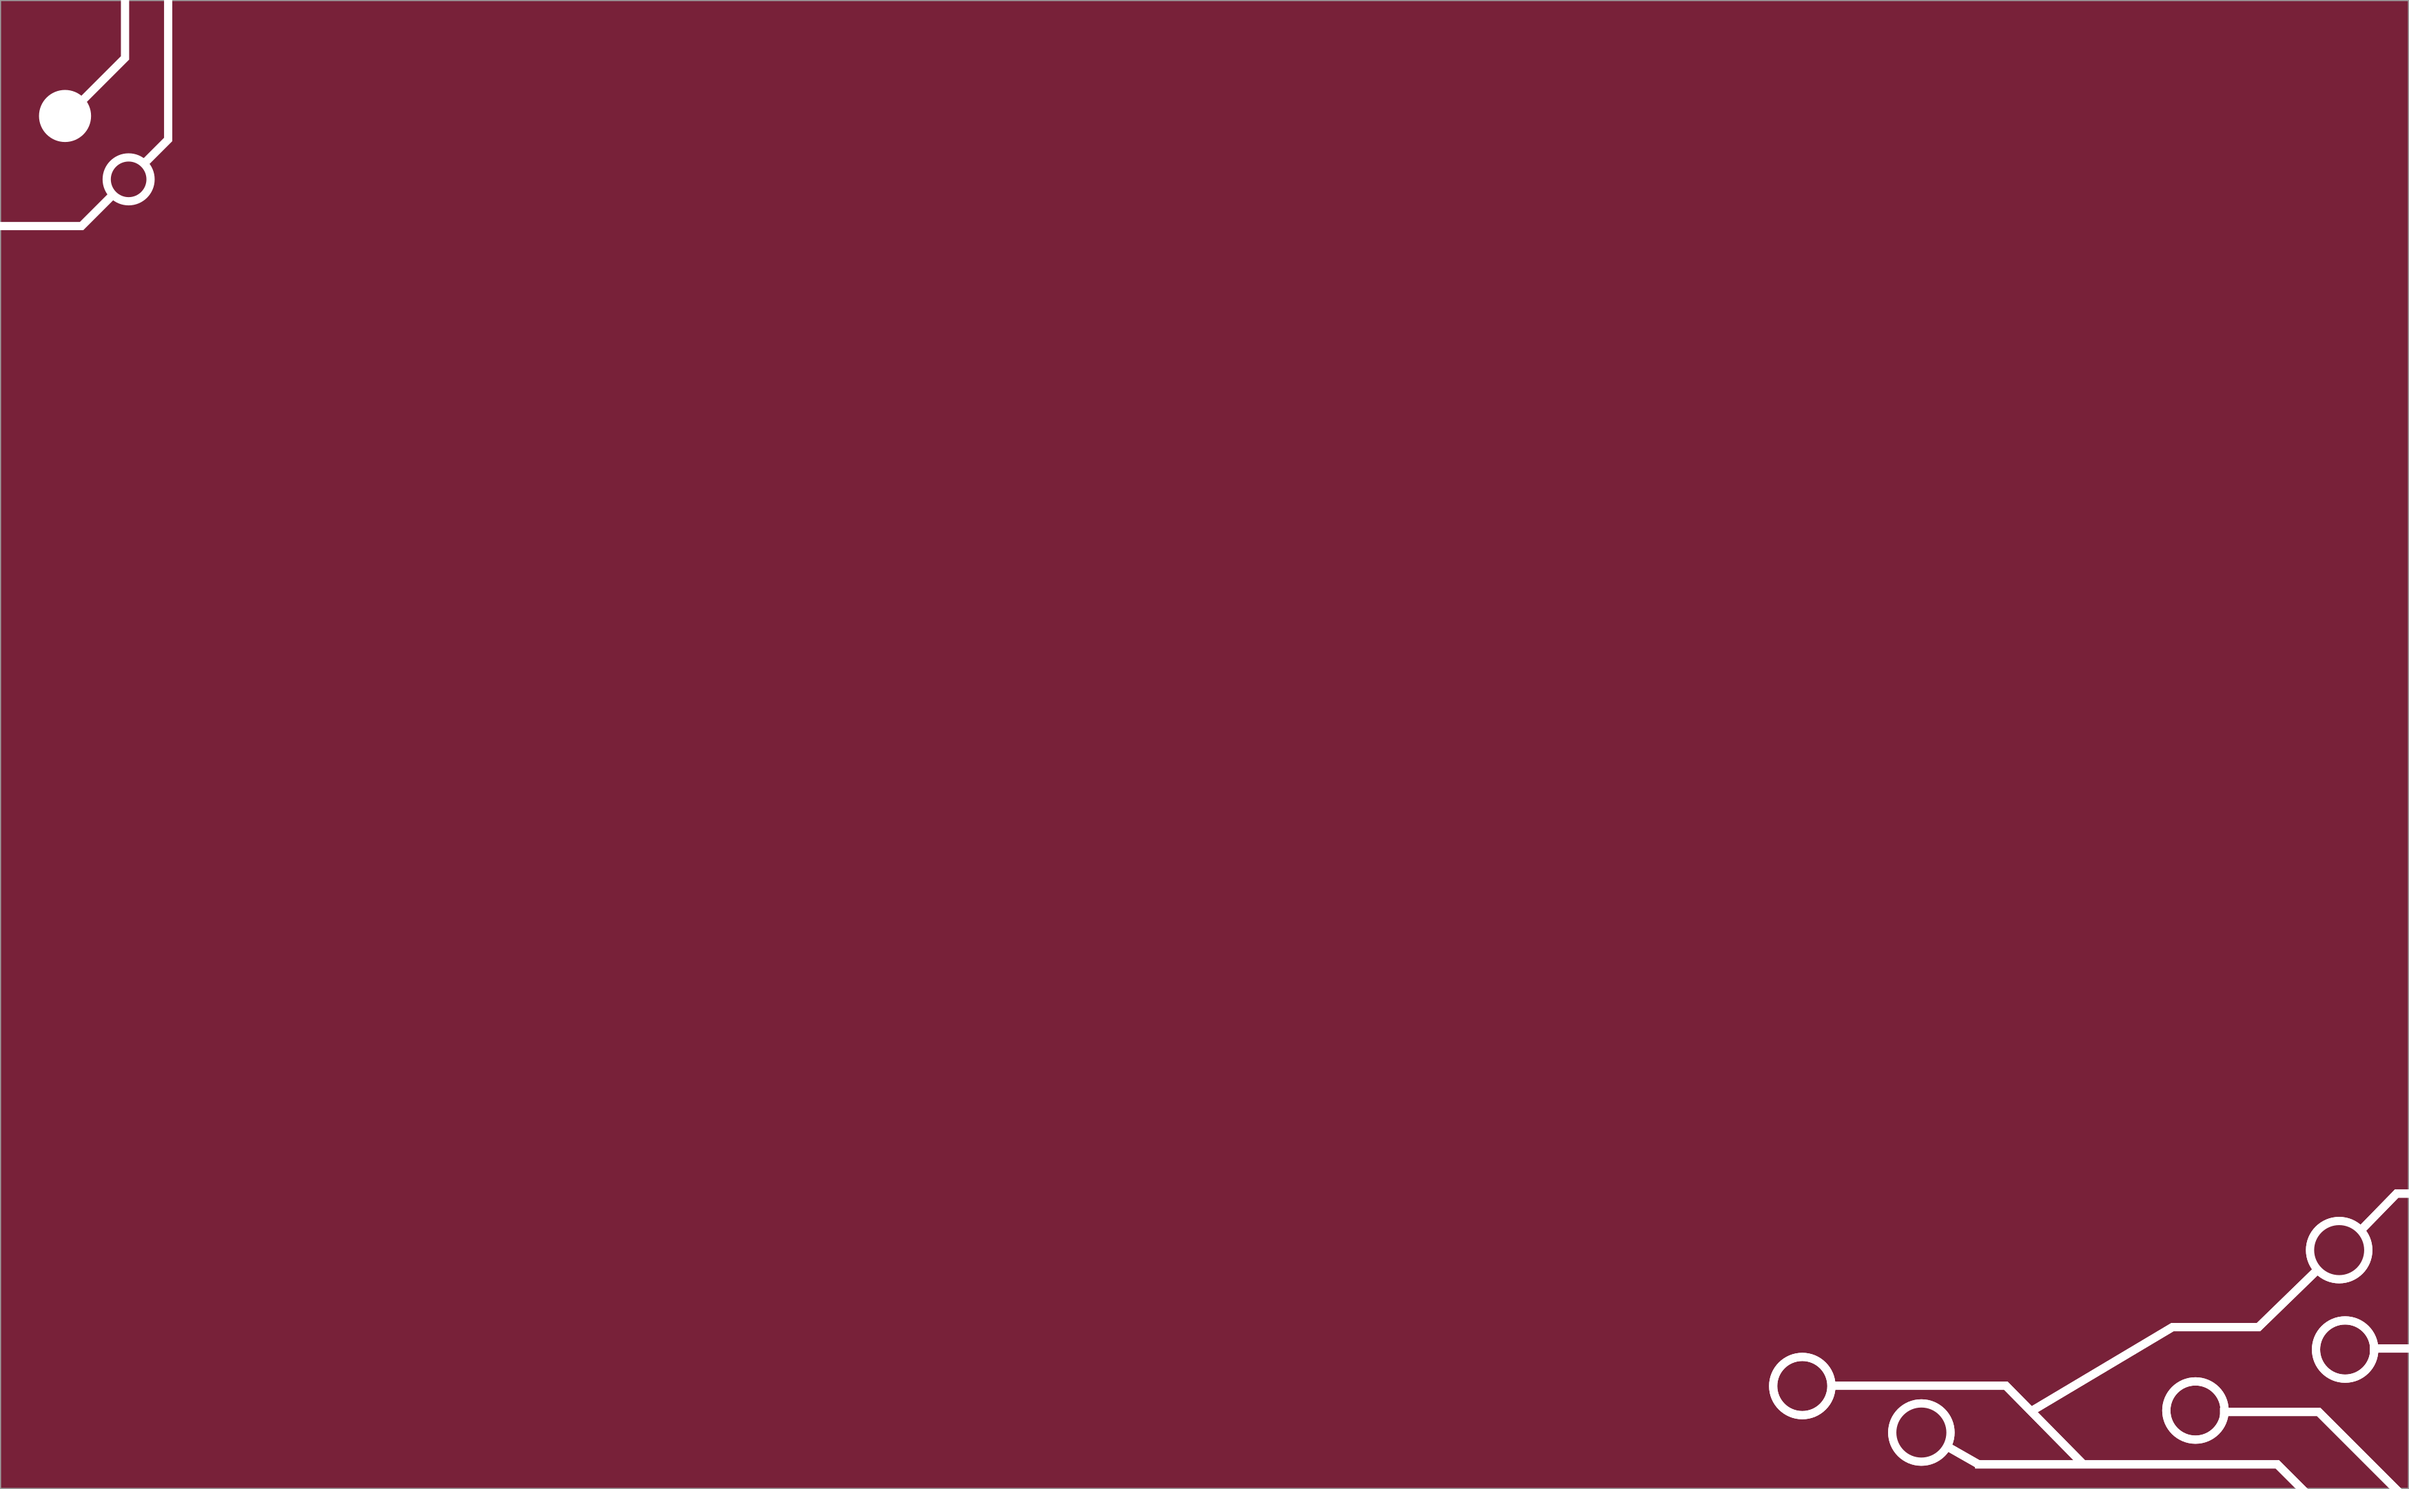
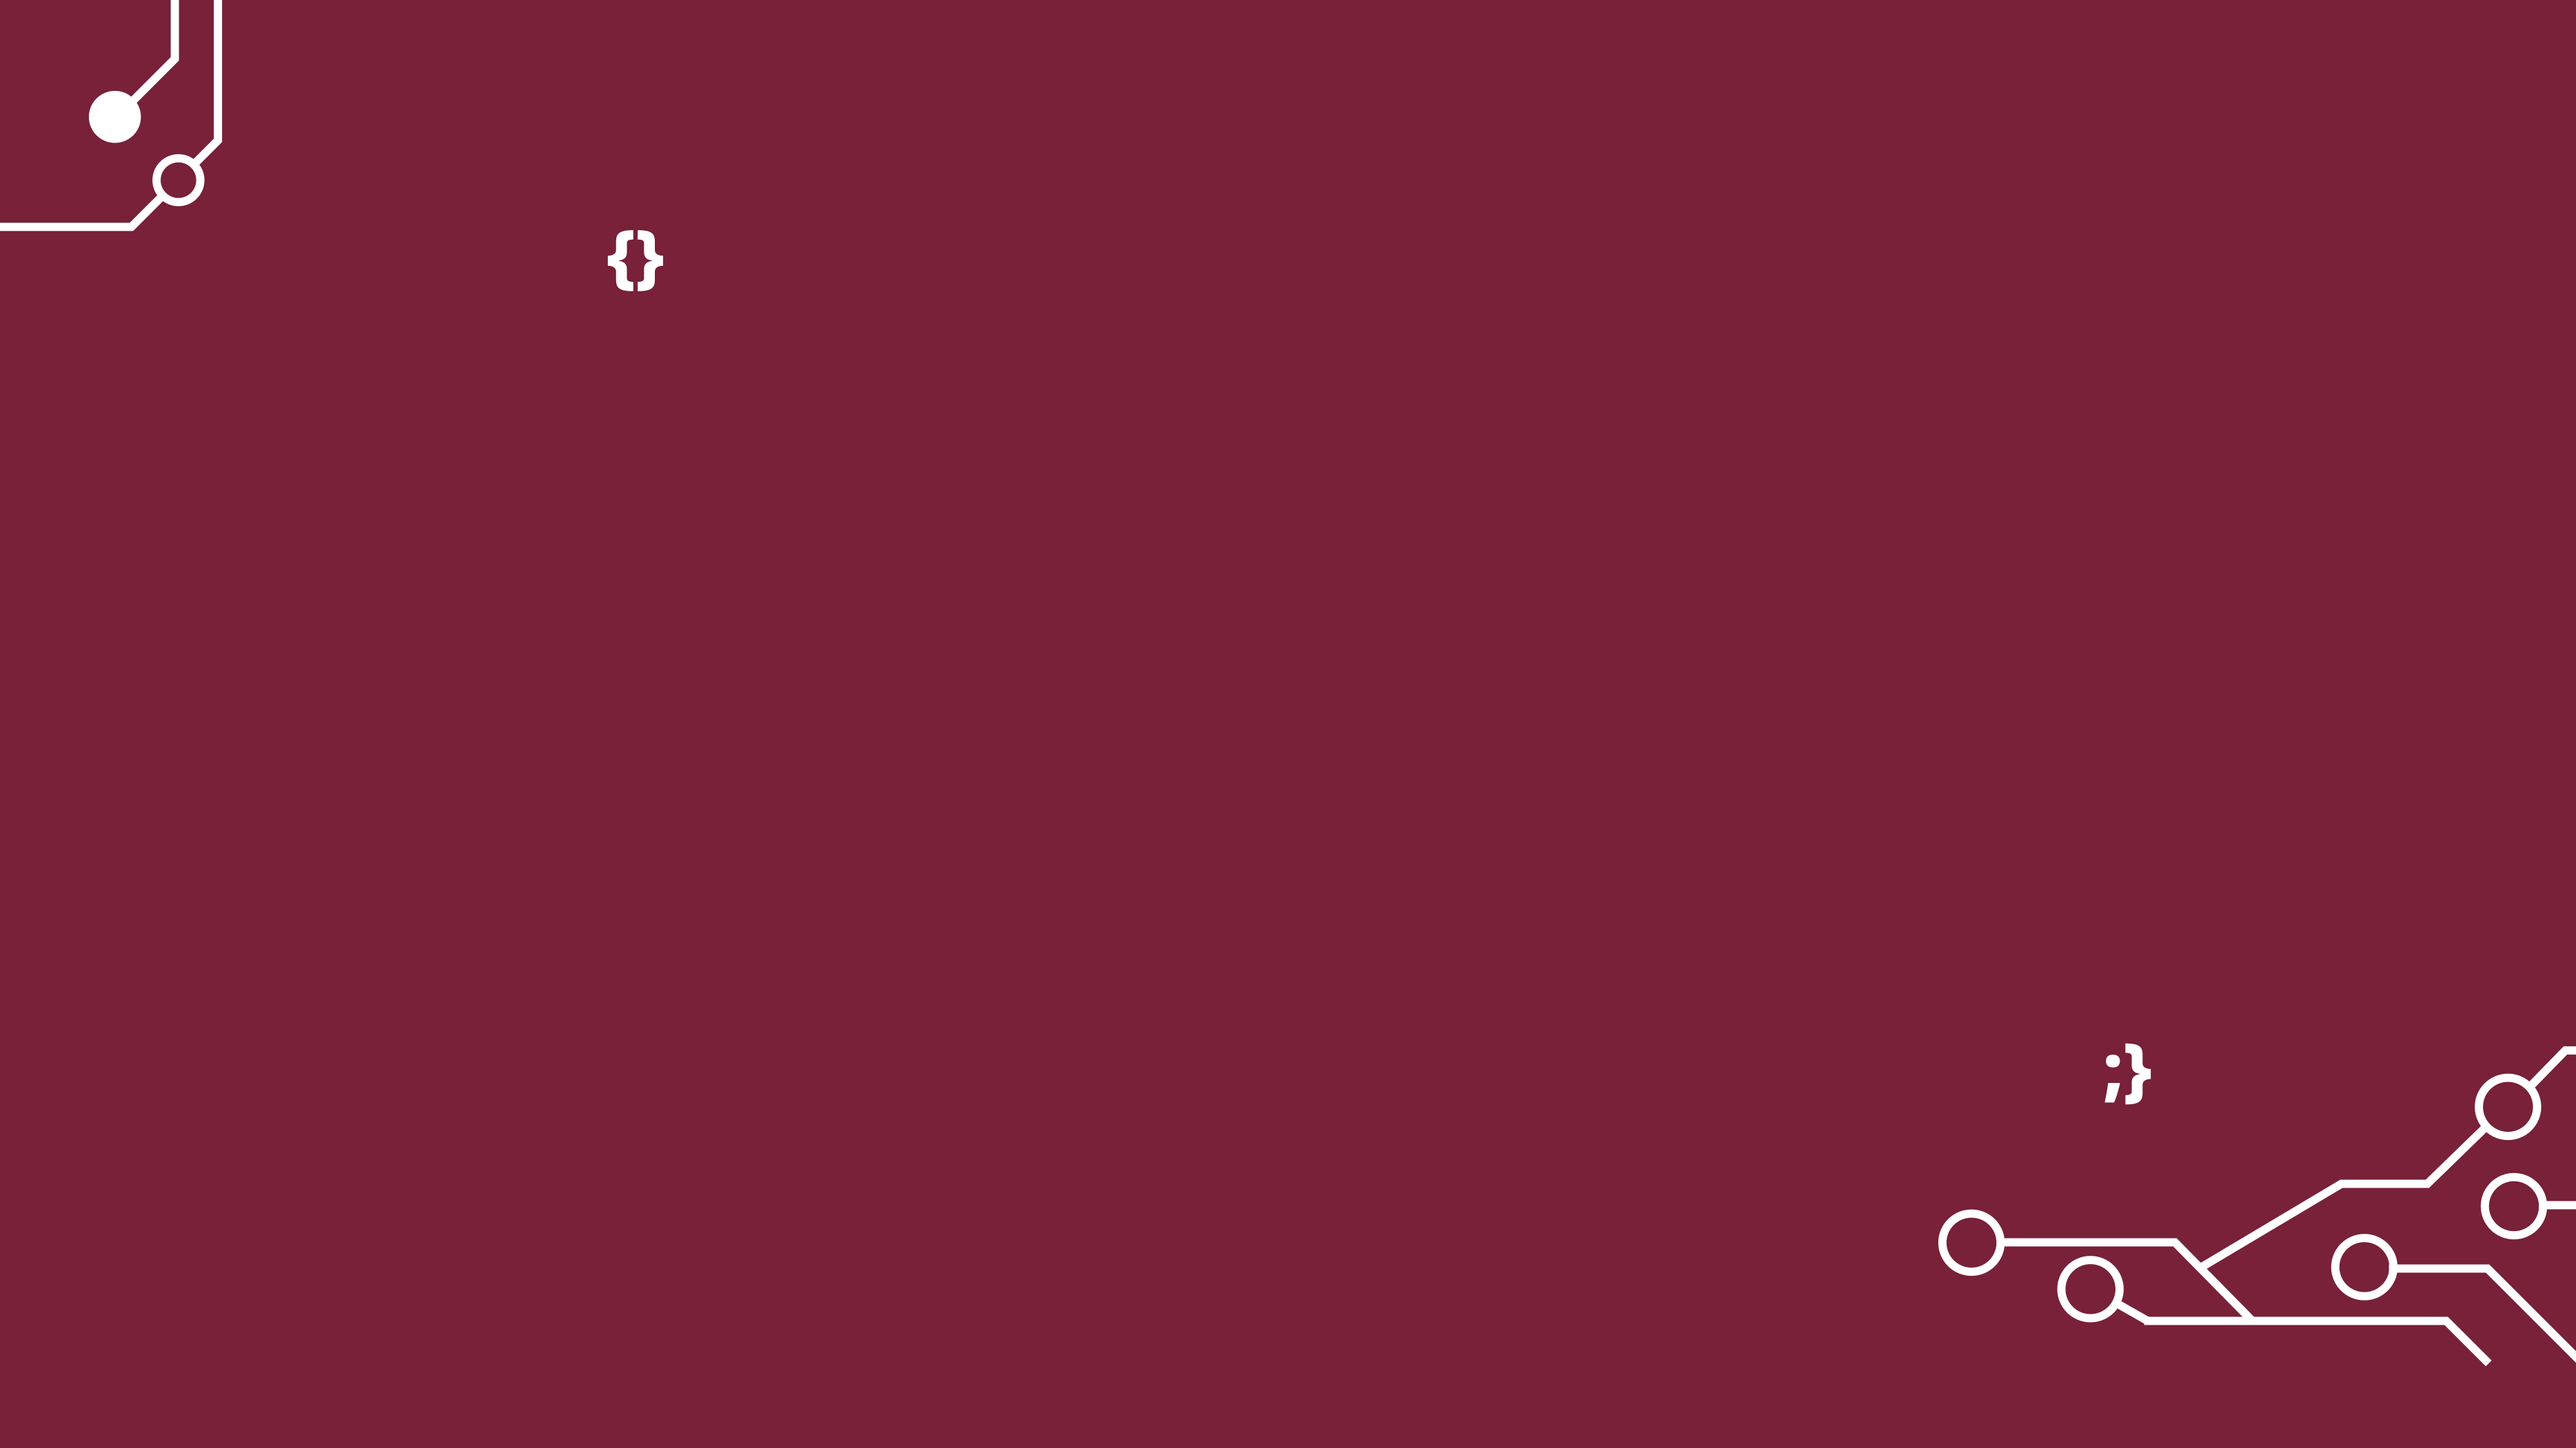
update color and background

diff --git a/index.html b/index.html
@@ -10,8 +10,8 @@
     <link rel="stylesheet" href="https://maxcdn.bootstrapcdn.com/bootstrap/4.0.0/css/bootstrap.min.css"
         integrity="sha384-Gn5384xqQ1aoWXA+058RXPxPg6fy4IWvTNh0E263XmFcJlSAwiGgFAW/dAiS6JXm" crossorigin="anonymous">
     <link rel="stylesheet" href="assets/css/style.css">
-    <link rel="shortcut icon" href="./assets/img/logo_white.ico"/>
-    <title> Open Umma</title>
+    <link rel="shortcut icon" href="./assets/img/mhackfest_logo_white.ico"/>
+    <title> Muslim Hackfest</title>
 </head>
 
 <body>
@@ -50,14 +50,11 @@
         <div class="container">
             
             <div class="row justify-content-center">
-                <h2 class="muslim-hackfest-title">Muslim Hackfest</h2>
+                <img src="./assets/img/mhackfest-logo-white.png" alt="Muslim Hackfest" />
             </div>
             <div class="justify-content-center text-center mt-2">
                 <div class="muslim-hackfest-paragraph">
                     <p>Muslim Hackfest is a competition for muslims technologist that want to develop their ideas into reality and benefitting humanity</p>
-                </div>
-                <div class="coming-soon">
-                    <img src="./assets/img/comming-soon.png" alt="Comming Soon" /> 
                 </div>
             </div>
             
@@ -80,14 +77,17 @@
                     Muslim Hackfest adalah sebuah lomba inovasi dan solusi berbasis digital dalam format Hackathon atau Hack Marathon yang ditujukan pada masyarakat Indonesia khususnya umat Islam untuk menyelesaikan berbagai macam permasalahan yang terjadi.
                 </p> 
                 <p>
-                    Lomba ini bertujuan untuk:    
+                    Muslim Hackaton adalah tempat yang tepat bagi kalian yang ingin berkarya serta memecahkan permasalah umat Muslim di Indonesia melalui teknologi. Dalam kompetisi ini kalian dapat memberikan gagasan terbaik kalian dalam meningkatkan kesejateraan umat muslim Indonesia dengan di bimbing langsung dengan mentor-mentor terbaik dalam bidang teknologi. Sudah saatnya Sahabat muslim mengeluarkan karya2 terbaik demi pemajuaan umat muslim.
+                </p>
+                <p>
+                    Tujuan diadakannya lomba ini adalah:  
                 </p> 
             </div>
             <div>
                 <ul> 
-                    <li>Menghasilkan ide-ide untuk memecahkan permsalahan umat berbasis IT</li>
-                    <li>Membangun sebuah lingkungan untuk berkolaborasi dan memajukan teknologi di kalangan muslim</li>
-                    <li>Mengasah skill</li>
+                    <li>Mendapatkan ide-ide solusi IT-based untuk kepentingan umat islam, khususnya di negara Indonesia</li>
+                    <li>Menjaring lebih banyak muslim-muslim yang bertalenta dan memiliki ghiroh atau semangat untuk meningkatkan kualitas Umat Islam</li>
+                    <li>Membangun sebuah lingkungan untuk berkolaborasi dan memajukan teknologi di kalangan muslim Indonesia</li>
                 </ul>
             </div>
         </div>

diff --git a/assets/css/style.css b/assets/css/style.css
@@ -83,11 +83,11 @@ h1{
 /* ========== HERO ========== */
 
 #hero{
-    background-image: url('../img/background.png');
+    background-image: url('../img/background1.png');
     background-size: cover;
     background-repeat: no-repeat;
-    padding-top: 8.85rem;
-    padding-bottom: 8.85rem;
+    padding-top: 12rem;
+    padding-bottom: 12rem;
     position: relative;
 }
 
@@ -126,7 +126,7 @@ h1{
 
 .muslim-hackfest-paragraph{
     color: white;
-    margin-top: 1rem;
+    margin-top: 3rem;
     margin-bottom: 4rem;
 }
 
@@ -137,7 +137,7 @@ h1{
 }
 
 .timeline {
-    border-left: 3px solid #e66e06;
+    border-left: 3px solid #782139;
     border-bottom-right-radius: 4px;
     border-top-right-radius: 4px;
     margin: 0 auto;
@@ -213,10 +213,10 @@ h1{
 }
 
 .timeline .event:after {
-    -webkit-box-shadow: 0 0 0 2px #e66e06;
-    box-shadow: 0 0 0 2px #e66e06;
+    -webkit-box-shadow: 0 0 0 2px #782139;
+    box-shadow: 0 0 0 2px #782139;
     left: -56px;
-    background: #e66e06;
+    background: #782139;
     border-radius: 50%;
     height: 9px;
     width: 9px;
